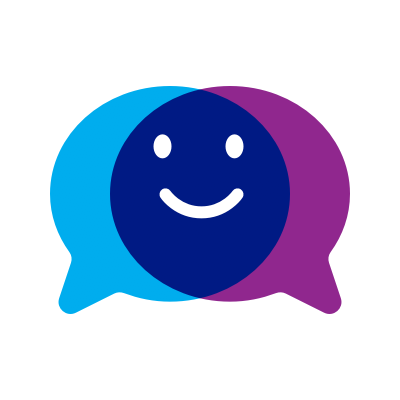
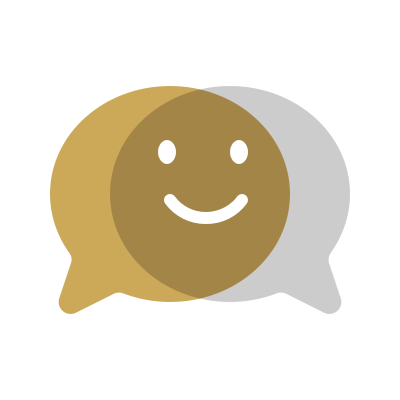
updates site metadata

diff --git a/_includes/twitter-card.html b/_includes/twitter-card.html
@@ -1,5 +1,5 @@
 <meta name="twitter:card" content="summary" />
-<meta name="twitter:site" content="@adamwhitcroft" />
-<meta name="twitter:title" content="#OpenMentorship, a project by Adam Whitcroft" />
-<meta name="twitter:description" content="Learn more about the #OpenMentorship project &rarr;" />
-<meta name="twitter:image" content="http://adamwhitcroft.com/open-mentorship/assets/twitter-card.png" />
+<meta name="twitter:site" content="@chrisjcarvalho" />
+<meta name="twitter:title" content="#OpenMentorship with Chris Carvalho" />
+<meta name="twitter:description" content="Learn more about the #OpenMentorship project and find out how to book some time with me &rarr;" />
+<meta name="twitter:image" content="https://chriscarvalho.github.io/open-mentorship/assets/twitter-card.png" />

diff --git a/_includes/footer.html b/_includes/footer.html
@@ -1,5 +1,5 @@
 <footer>
-  <p>Follow <a href="https://twitter.com/christiannaths">@christiannaths</a></p>
-  <p>The content, logo, and layout for this site was generously donated by <a href="https://twitter.com/adamwhitcroft">@adamwhitcroft</a>. I'm piggybacking off of his initiative (with permission) beacause I thought it was a really cool idea and I wanted to get involved. I hope more people will do the same.</p>
+  <p>A project started by <a href="https://twitter.com/adamwhitcroft">@adamwhitcroft</a>.</p>
   <p>Want to get involved? <a href="https://github.com/AdamWhitcroft/open-mentorship">Fork the original repository</a></p>
+  <p>Follow <a href="https://twitter.com/chrisjcarvalho">@chrisjcarvalho</a></p>
 </footer>

diff --git a/_includes/head.html b/_includes/head.html
@@ -3,7 +3,7 @@
   <meta http-equiv="X-UA-Compatible" content="IE=edge,chrome=1">
   <title>{{ site.title }}</title>
   <meta name="viewport" content="width=device-width, initial-scale=1">
-  <link rel="shortcut icon" href=/favicon.ico type=image/x-icon>
+  <link rel="shortcut icon" href=https://chriscarvalho.github.io/open-mentorship/assets/favicon.png type=image/x-icon>
   {% include analytics.html %}
   {% capture styles %}
   {% include style.css %}

diff --git a/_sass/_vars.scss b/_sass/_vars.scss
@@ -5,7 +5,7 @@
 /* Colours */
 $color-main: #31373D;
 $color-main-light: #798C9C;
-$color-accent: #752ec0;
+$color-accent: #cca859;
 
 /* Fonts */
 $font-family-sans: -apple-system, BlinkMacSystemFont,'avenir next', avenir, helvetica, 'helvetica neue', ubuntu, roboto, noto, 'segoe ui', arial, sans-serif;

diff --git a/_sass/_style.scss b/_sass/_style.scss
@@ -132,12 +132,12 @@ footer {
 
   & > .bubbleLeft {
     animation: bounce 2000ms infinite;
-    fill: #ff4f6d;
+    fill: #cca859;
   }
 
   & > .bubbleRight {
     animation: bounce 2000ms 800ms infinite;
-    fill: #752ec0;
+    fill: #ccc;
   }
 }
 
